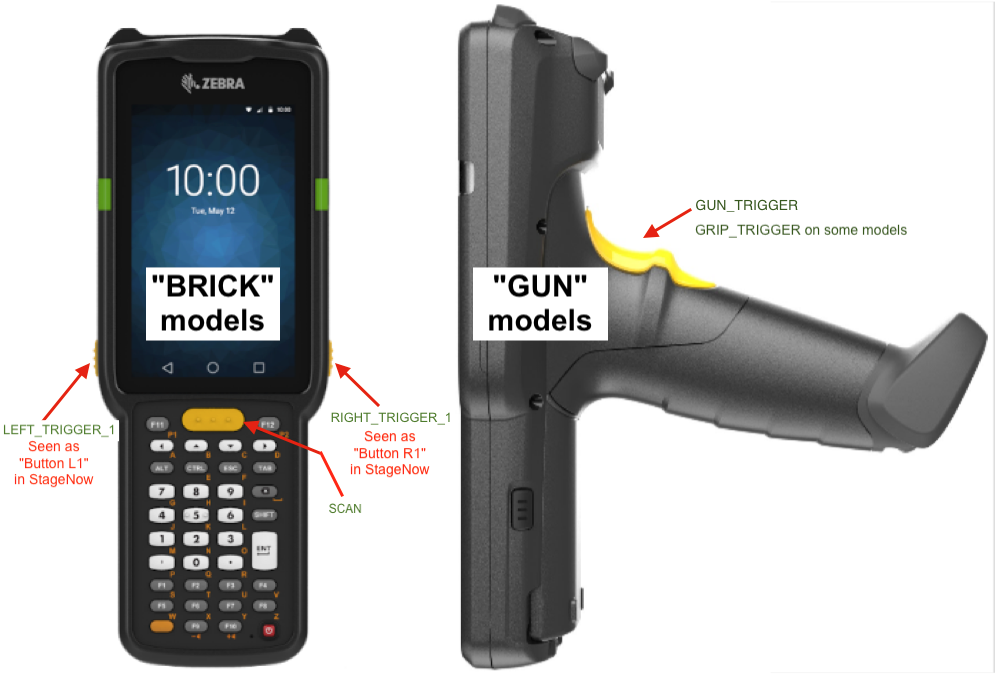
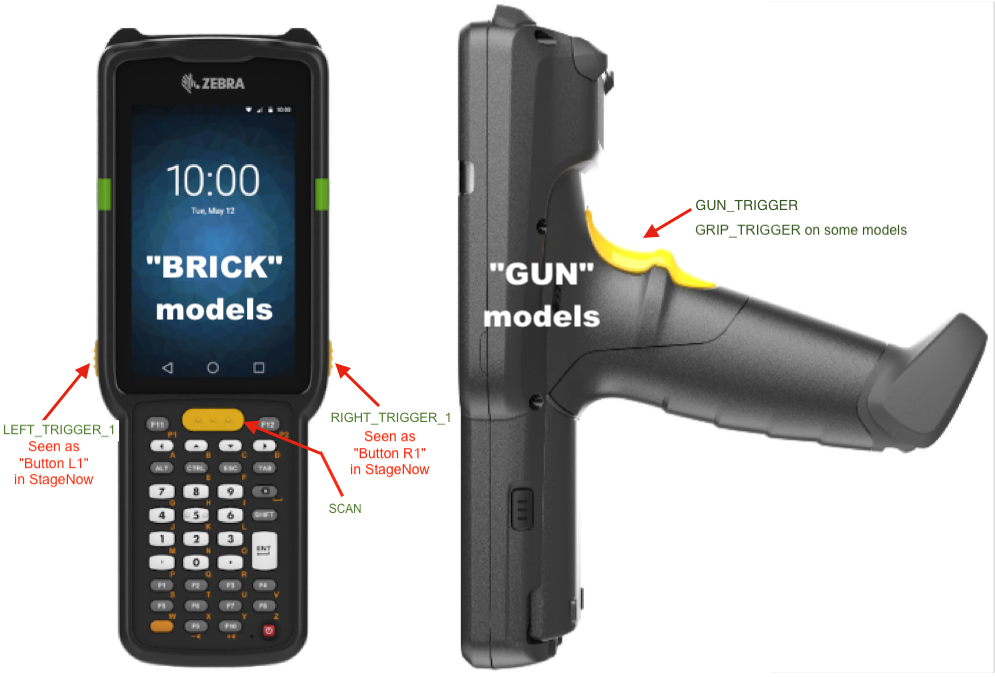
[TUT-44423] MX 10.2 KeyMapingMgr update MC33 key IDs graphic

Changed region(s): [[0.4673, 0.3722, 0.6231, 0.5273], [0.1246, 0.3722, 0.2804, 0.5273]]

diff --git a/src/mx/beaconmgr/index.md b/src/mx/beaconmgr/index.md
@@ -1,6 +1,6 @@
 ---
-title: Bluetooth Manager
-description: The BluetoothMgr controls whether to allow new devices to pair.
+title: Beacon Manager
+description: Beacon Manager controls the signal emitted by a misplaced device as an aid to locating it using a second device running Zebra Device Tracker.
 layout: csp-detail.html
 mxversions:
   - text: MX 4.2

diff --git a/src/mx/compatibility/index.md b/src/mx/compatibility/index.md
@@ -53,6 +53,10 @@ csps:
     url: /mx/batterymgr
     csp: batterymgr
   - type: section
+    title: Beacon Manager
+    url: /mx/beaconmgr
+    csp: beaconmgr
+  - type: section
     title: Bluetooth Manager
     url: /mx/bluetoothmgr
     csp: bluetoothmgr

diff --git a/src/mx/index.md b/src/mx/index.md
@@ -63,6 +63,10 @@ csps:
     url: /mx/batchmgr
     csp: batchmgr
   - type: section
+    title: Beacon Manager
+    url: /mx/beaconmgr
+    csp: beaconmgr
+  - type: section
     title: Battery Manager
     url: /mx/batterymgr
     csp: batterymgr
